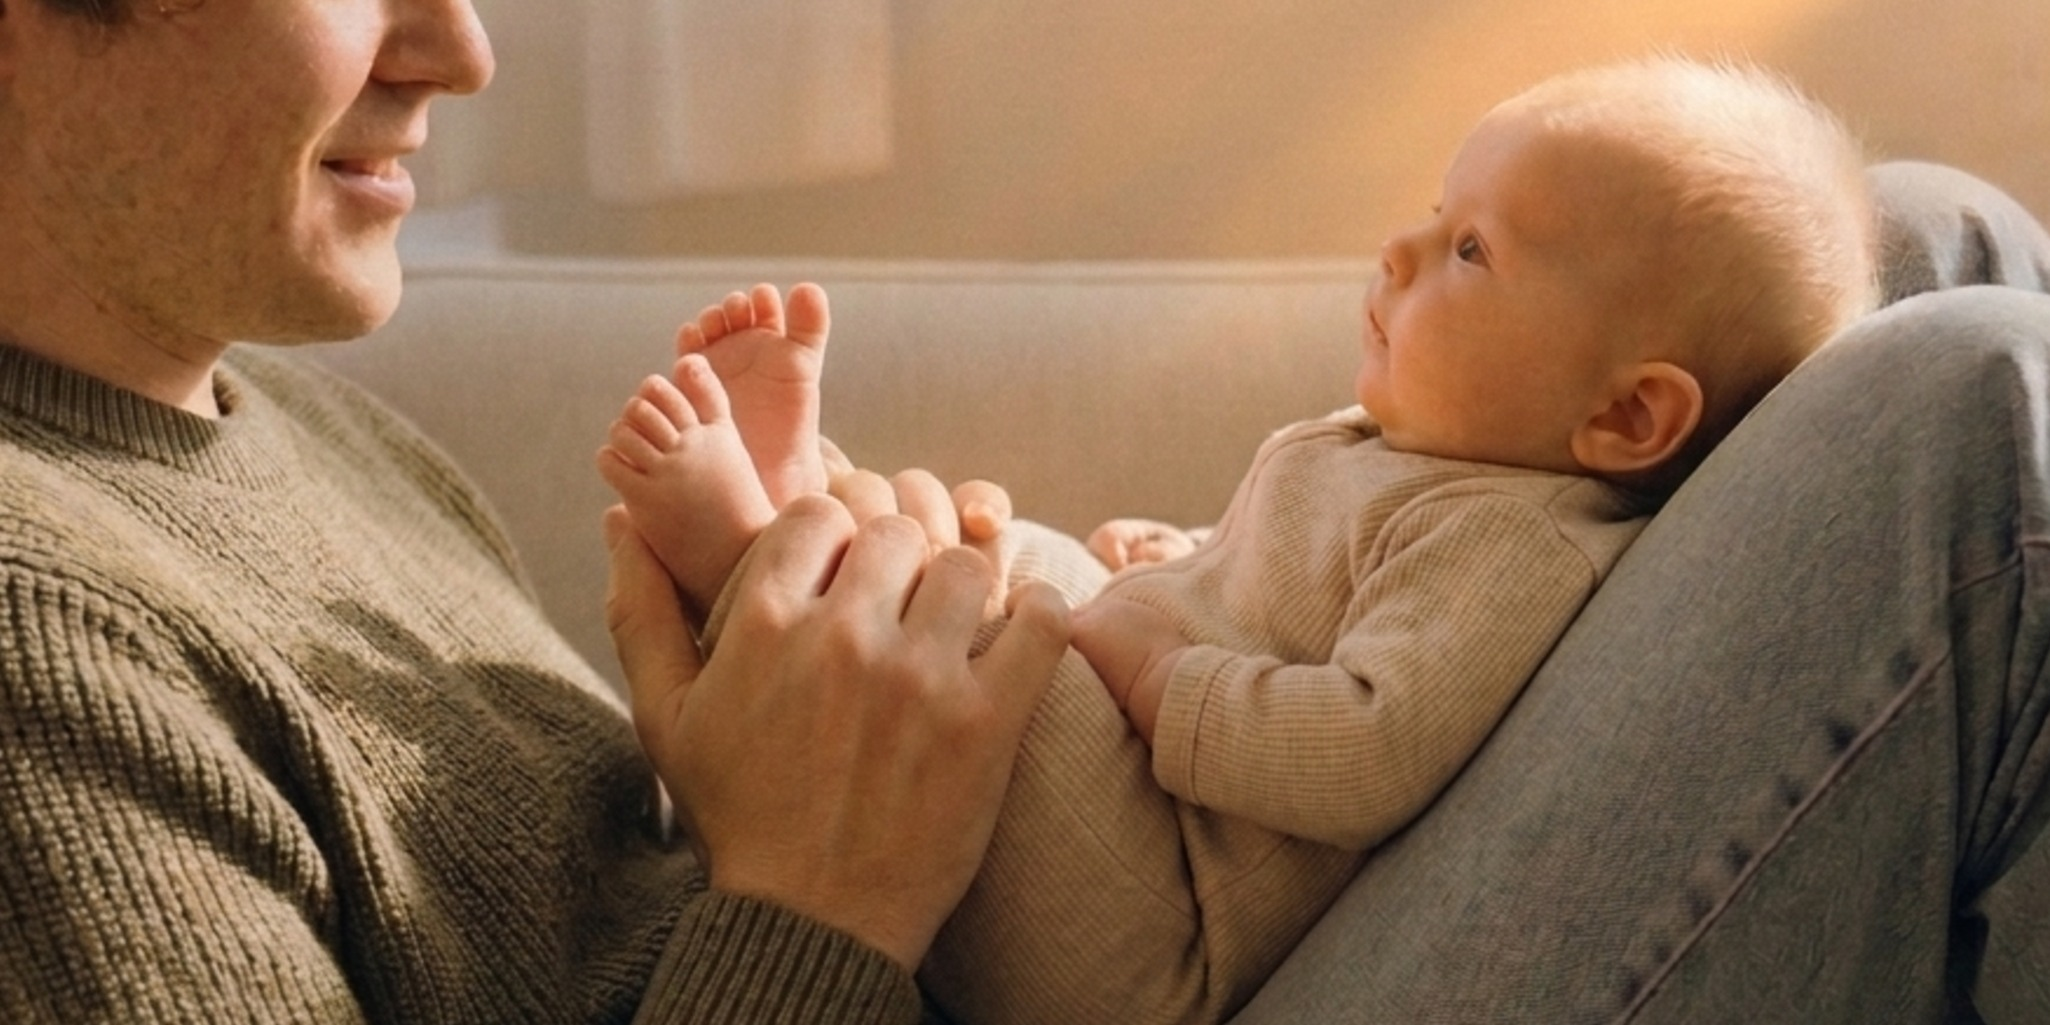
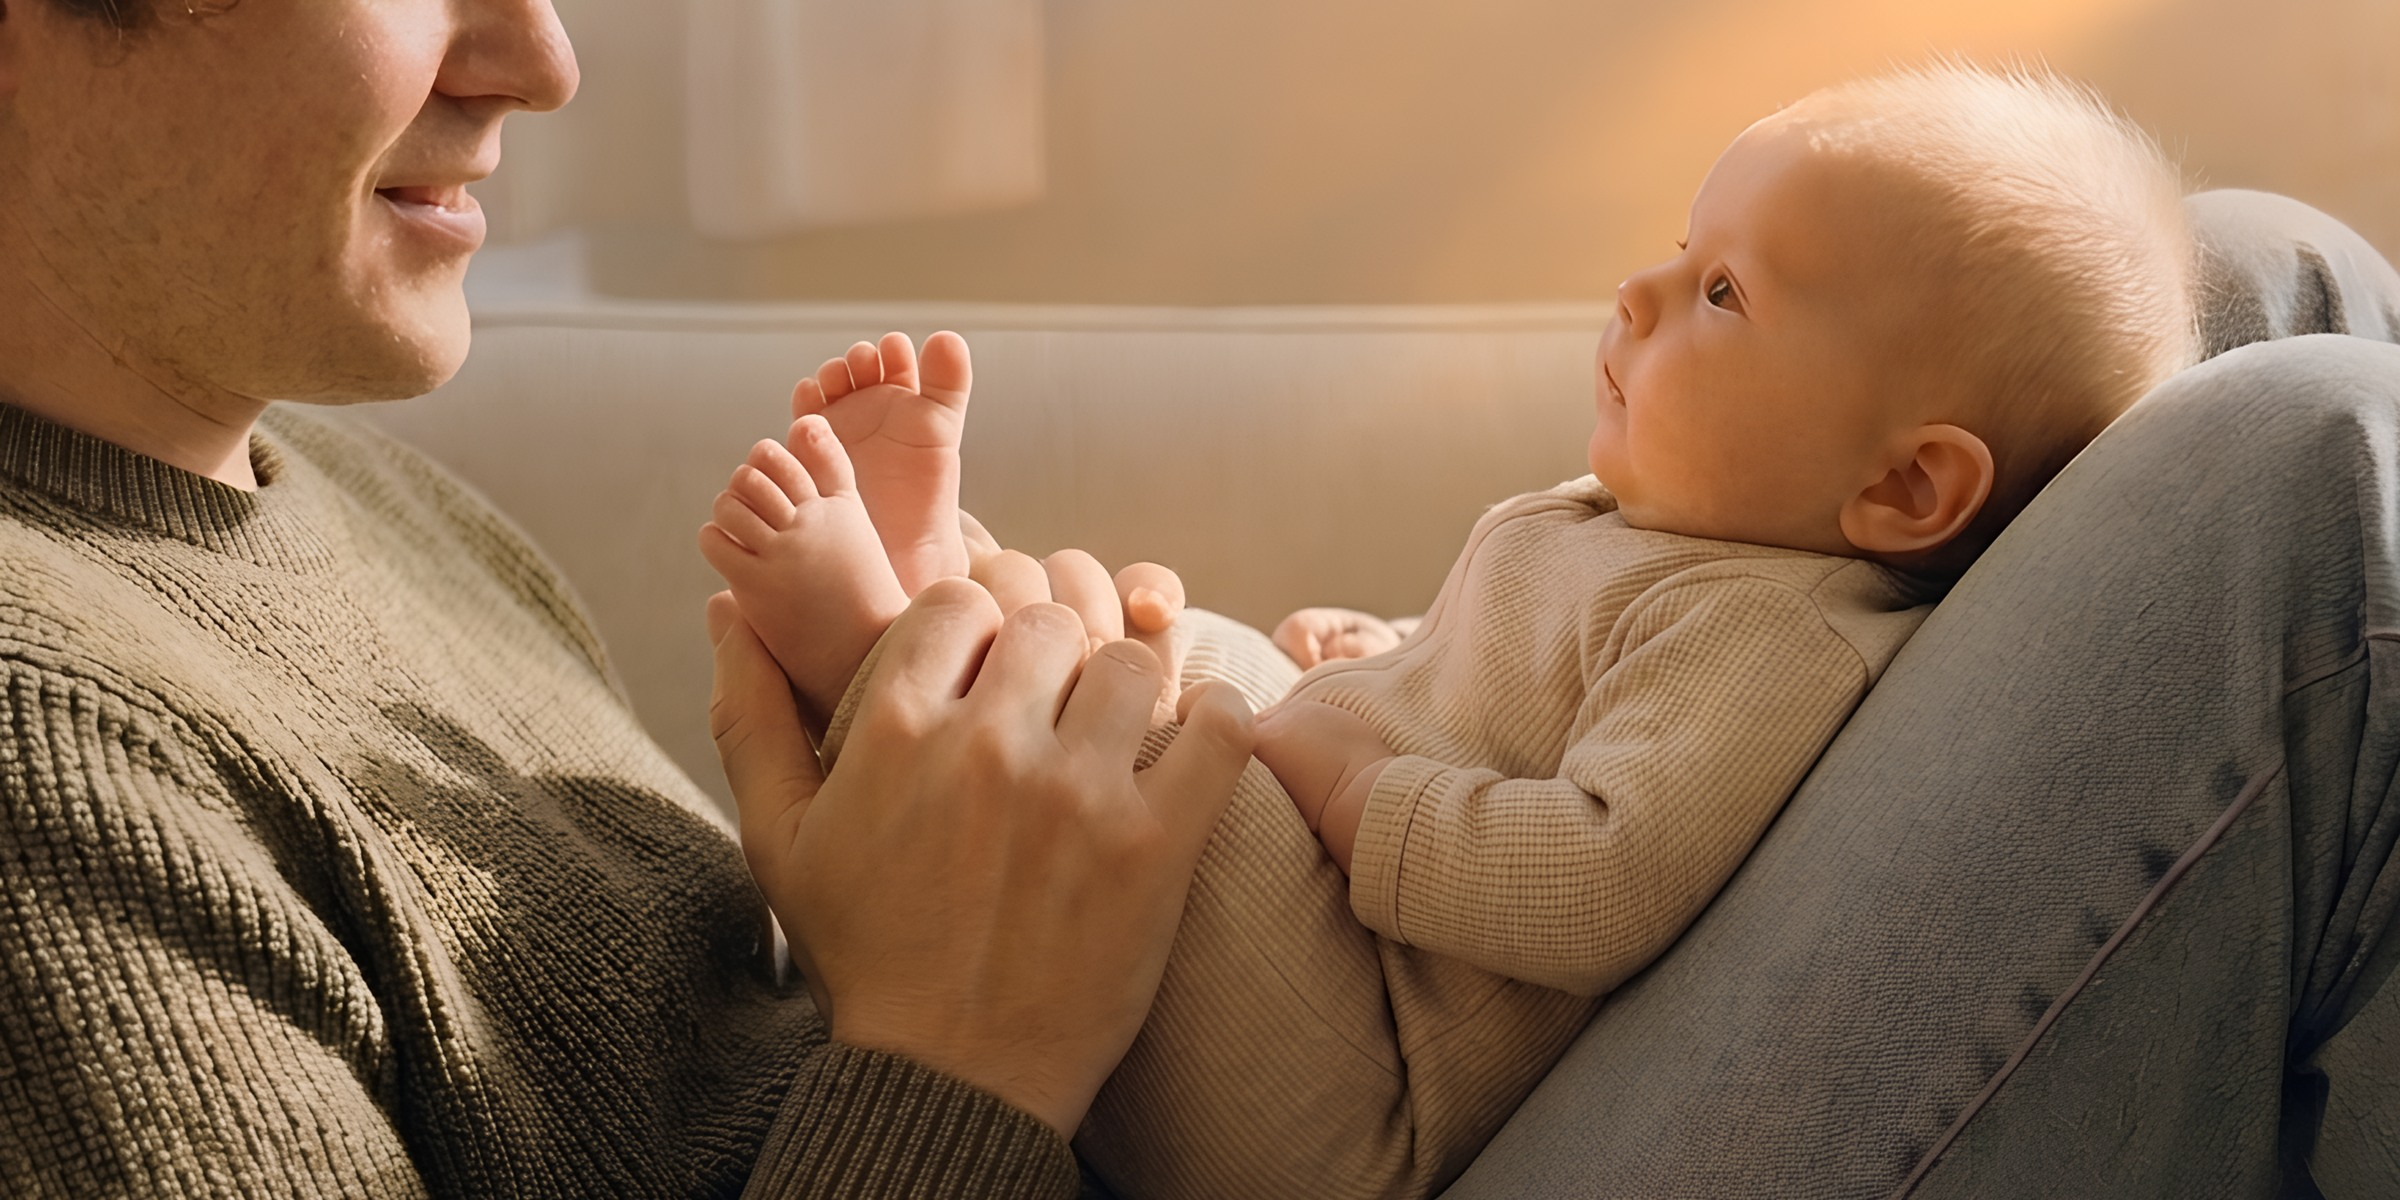
feat(reflexologie): haut de page fixe, « Les séquences », photo haute résolution
Titres en noir pur sur la photo. Les séquences défilent sous le titre ;
le haut redevient normal quand l'Introduction est ouverte.

Changed region(s): [[0.0, 0.4995, 0.281, 1.0], [0.0312, 0.3746, 0.1561, 0.5932]]

diff --git a/app/(app)/reflexologie/page.tsx b/app/(app)/reflexologie/page.tsx
@@ -3,7 +3,11 @@ import { getBabyMonth } from "@/lib/utils";
 import { accueilReflexo, getProtocolesPublies } from "@/lib/reflexologie";
 import { ReflexoListe } from "@/components/modules/reflexo-liste";
 import { ReflexoReplier } from "@/components/modules/reflexo-replier";
-import { ReflexoPhoto, REFLEXO_PHOTO_CHEVAUCHEMENT } from "@/components/modules/reflexo-photo";
+import {
+  ReflexoHautFixe,
+  ReflexoPhoto,
+  REFLEXO_PHOTO_CHEVAUCHEMENT,
+} from "@/components/modules/reflexo-photo";
 import {
   PLAYFAIR,
   REFLEXO_MUTED,
@@ -24,8 +28,10 @@ export default async function ReflexologiePage() {
 
   return (
     // 8 px de marge latérale sur TOUTE la page : l'introduction, le titre
-    // « Les protocoles » et les cases sont ferrés sur la même ligne.
-    <div style={{ display: "flex", flexDirection: "column", gap: 22, padding: "0 8px" }}>
+    // « Les séquences » et les cases sont ferrés sur la même ligne.
+    <div style={{ display: "flex", flexDirection: "column", gap: 4, padding: "0 8px" }}>
+      {/* Haut de page fixe : les séquences défilent sous « Les séquences ». */}
+      <ReflexoHautFixe>
       {/* En-tête : photo bord à bord, titre et sous-titre posés dessus */}
       <ReflexoPhoto />
 
@@ -47,8 +53,8 @@ export default async function ReflexologiePage() {
         className="reflexo-intro"
         style={{
           position: "relative",
-          // 22 px = l'écart de la page, à annuler pour chevaucher vraiment la photo.
-          marginTop: -(22 + REFLEXO_PHOTO_CHEVAUCHEMENT),
+          // 14 px = l'écart du haut de page, à annuler pour chevaucher vraiment la photo.
+          marginTop: -(14 + REFLEXO_PHOTO_CHEVAUCHEMENT),
           background: REFLEXO_FOND_LECTEUR,
           borderRadius: 14,
           overflow: "hidden",
@@ -192,8 +198,6 @@ export default async function ReflexologiePage() {
         </div>
       </details>
 
-      {/* Liste des protocoles publiés, dans l'ordre éditorial de l'index */}
-      <section style={{ display: "flex", flexDirection: "column", gap: 12 }}>
         <h2
           style={{
             fontSize: 10,
@@ -204,11 +208,15 @@ export default async function ReflexologiePage() {
             margin: 0,
           }}
         >
-          Les protocoles
+          Les séquences
         </h2>
+      </ReflexoHautFixe>
+
+      {/* Liste des séquences publiées, dans l'ordre éditorial de l'index */}
+      <section style={{ display: "flex", flexDirection: "column" }}>
         {protocoles.length === 0 ? (
           <p style={{ fontSize: 13, color: REFLEXO_MUTED, fontStyle: "italic" }}>
-            Aucun protocole n&apos;est publié pour le moment.
+            Aucune séquence n&apos;est publiée pour le moment.
           </p>
         ) : (
           <ReflexoListe protocoles={protocoles} />
@@ -225,7 +233,8 @@ export default async function ReflexologiePage() {
           color: REFLEXO_TEXT,
           opacity: 0.7,
           fontStyle: "italic",
-          margin: 0,
+          // 28 px en bas : les boutons ronds de la barre dépassent au-dessus d'elle.
+          margin: "18px 0 28px",
         }}
       >
         {accueilReflexo.disclaimer}

diff --git a/components/modules/reflexo-photo.tsx b/components/modules/reflexo-photo.tsx
@@ -1,5 +1,9 @@
+import type { ReactNode } from "react";
 import Image from "next/image";
-import { PLAYFAIR, REFLEXO_MUTED, REFLEXO_TEXT } from "@/components/modules/reflexo-design";
+import { PLAYFAIR } from "@/components/modules/reflexo-design";
+
+// Noir pur sur la photo, pour la lisibilité (Laura, 21/11/2026).
+const TITRE_SUR_PHOTO = "#000000";
 
 // Photo en haut de la page 1 de la Réflexologie (Laura, 21/11/2026), bord à bord,
 // moins haute que celle de l'accueil, coupée juste sous les yeux du papa. Le titre
@@ -9,13 +13,41 @@ import { PLAYFAIR, REFLEXO_MUTED, REFLEXO_TEXT } from "@/components/modules/refl
 /** De combien (px) le bloc Introduction remonte sur la photo. */
 export const REFLEXO_PHOTO_CHEVAUCHEMENT = 26;
 
+/**
+ * Tout le haut de la page, de la photo au titre « Les séquences » : il reste fixe
+ * et les séquences défilent dessous (Laura, 21/11/2026). Son fond est opaque pour
+ * les masquer. Quand l'Introduction est ouverte, il redevient normal : son long
+ * texte doit pouvoir défiler. Sans `:has`, la règle est ignorée et rien ne se fige.
+ */
+export function ReflexoHautFixe({ children }: { children: ReactNode }) {
+  return (
+    <div
+      className="reflexo-haut"
+      style={{
+        // Annule les marges du <main> (24 px en haut, 20 px sur les côtés) et de la page (8 px).
+        margin: "-24px -28px 0",
+        padding: "0 28px 10px",
+        background: "#FBF2E7",
+        display: "flex",
+        flexDirection: "column",
+        gap: 14,
+      }}
+    >
+      <style>{`
+        .reflexo-haut:not(:has(details[open])) { position: sticky; top: 0; z-index: 10; }
+      `}</style>
+      {children}
+    </div>
+  );
+}
+
 export function ReflexoPhoto() {
   return (
     <header
       style={{
         position: "relative",
-        // Annule les marges du <main> (20 px) et de la page (8 px).
-        margin: "-24px -28px 0",
+        // Bord à bord : annule le retrait de ReflexoHautFixe.
+        margin: "0 -28px",
         height: "clamp(150px, 23dvh, 195px)",
         overflow: "hidden",
         flexShrink: 0,
@@ -49,7 +81,7 @@ export function ReflexoPhoto() {
             fontFamily: PLAYFAIR,
             fontWeight: 700,
             fontSize: 26,
-            color: REFLEXO_TEXT,
+            color: TITRE_SUR_PHOTO,
             letterSpacing: "-.015em",
             lineHeight: 1.1,
             margin: "0 0 8px 0",
@@ -60,7 +92,7 @@ export function ReflexoPhoto() {
         <p
           style={{
             fontSize: 9,
-            color: REFLEXO_MUTED,
+            color: TITRE_SUR_PHOTO,
             letterSpacing: ".15em",
             textTransform: "uppercase",
             fontWeight: 600,

diff --git a/components/modules/reflexo-liste.tsx b/components/modules/reflexo-liste.tsx
@@ -10,7 +10,7 @@ import { ReflexoIcone } from "./reflexo-icone";
 
 export function ReflexoListe({ protocoles }: { protocoles: ReflexoListItem[] }) {
   // La marge latérale est portée par le conteneur de la page, pour que la
-  // liste, le titre « Les protocoles » et l'introduction soient ferrés sur la
+  // liste, le titre « Les séquences » et l'introduction soient ferrés sur la
   // même ligne. Rien ici.
   return (
     <ul style={{ display: "grid", gap: 9, listStyle: "none", margin: 0, padding: 0 }}>

diff --git a/skills/DECISIONS.md b/skills/DECISIONS.md
@@ -649,7 +649,7 @@ Ces documents restent consultables pour l'argumentaire, les sources et les chiff
 - ✅ (30/10) **Réflexologie plantaire, accès selon l'âge** : les tranches d'âge des 20 protocoles publiés sont validées telles qu'écrites (`age_min_mois` → `age_max_mois`, bornes incluses ; `age_statut: "valide"` partout). Hors de sa tranche, un protocole est **totalement bloqué** : absent de la liste, page en 404, épingle grisée non cliquable avec « Ce geste ne correspond plus à l'âge de bébé » (on peut encore la retirer). Les 5 protocoles retirés pour déontologie (bronchite-asthme, eczéma, allergies, ictère, méconium) restent sur l'ordinateur mais **jamais dans Supabase** (vérifié : absents de la base, aucune épingle, aucun lien). Mode relecture `TOUT_VISIBLE` repassé à `false`. Code : `lib/reflexologie.ts` (`adapteAuMois`, `getProtocolePourMois`).
 - ✅ (21/11, remplace les bornes du 30/10 pour ces 4 protocoles) **Nouveaux repères de mois, Réflexologie plantaire** : Naissance prématurée **M0-M3** (avant M0-M5) · Difficultés à téter **M0-M6** (avant M0-M2) · Reflux **M0-M11** (avant M0-M8) · Rhume et oreilles **M4-M23** (avant M6-M23). Coliques (M0-M3) et Inconfort digestif (M4-M12) inchangés. Lien posé : M4, *Le lavage de nez* → `rhume-otite`. Les autres liens possibles restent à valider par Laura (`content/reflexologie/COUVERTURE_reflexo_guide_moi.md`, section 0).
 - ✅ (21/11) **Ordre des slots, Réflexologie plantaire** : **naissance** (accueil du nouveau-né, prématurité, césarienne) · **émotions, regroupées** (séparation, frustration motrice, opposition, concentration, anxiété, jalousie, confiance en soi) · **sommeil** · **troubles physiques** (téter, coliques, inconfort digestif, reflux, dents, constipation, diarrhée, transports, rhume et oreilles). Cet ordre remplace l'idée du slot 4 pour « Sommeil paisible », demandée le même jour. Réglage : liste `lancement` de `content/reflexologie/protocoles-index.json`.
-- ✅ (21/11) **Photo en haut de la page 1 de la Réflexologie plantaire** : « reflexologie - intro - canape avec papa », zoomée et coupée juste sous les yeux du papa, bord à bord, moins haute que la photo d'accueil. Titre et sous-titre centrés en hauteur et en largeur dans la partie visible de la photo, **typo, tailles et couleurs inchangées** : ils peuvent passer sur le visage de bébé, ce qui préserve son anonymat ; bloc Introduction à cheval, comme la case Sommeil sur l'accueil. Code : `components/modules/reflexo-photo.tsx`.
+- ✅ (21/11) **Photo en haut de la page 1 de la Réflexologie plantaire** : « reflexologie - intro - canape avec papa 2 » (version 4096 px, rangée dans `images/reflexologie/anciennes photos/`), zoomée et coupée juste sous les yeux du papa, bord à bord, moins haute que la photo d'accueil. Titre et sous-titre centrés en hauteur et en largeur dans la partie visible de la photo, **typo et tailles inchangées, en noir pur** pour la lisibilité. Le haut de page (photo, Introduction, titre **« Les séquences »**, ex « Les protocoles ») reste **fixe** et les séquences défilent dessous ; quand l'Introduction est ouverte, la page défile normalement pour qu'on puisse la lire. Les titres peuvent passer sur le visage de bébé, ce qui préserve son anonymat ; bloc Introduction à cheval, comme la case Sommeil sur l'accueil. Code : `components/modules/reflexo-photo.tsx`.
 - ✅ (04/11) **Bandeau admin, encore plus accessible** : entrée « Aperçu admin (mois, genre, saison) » dans le menu 3 traits de l'accueil (admins seulement), qui ouvre le bandeau à coup sûr ; poignée plus grande (56 × 6 px, zone de toucher 120 × 36) et plus foncée, descendue sous la zone de l'heure de l'iPhone. Code : `components/ui/app-menu.tsx`, `components/modules/apercu-tiroir.tsx`.
 - ✅ (30/10) **Bandeau admin, accès plus facile** : le geste seul était trop difficile à trouver. Une petite poignée grise discrète en haut au centre de l'écran (admins seulement) ouvre le bandeau d'un toucher ; le geste reste, plus sensible (45 px à glisser ; sur ordinateur, les petits crans de molette ou de pavé tactile s'additionnent). Code : `components/modules/apercu-tiroir.tsx`.
 - ✅ (29/10, soir) **Bandeau admin caché par défaut** (vue « parent ») : il descend en glissant l'écran vers le bas tout en haut de la page (ordinateur : molette vers le haut en haut de page), remonte en glissant vers le haut ou en touchant ailleurs, et se referme après un changement. Pour les admins, le « tirer pour rafraîchir » du navigateur est désactivé. Code : `components/modules/apercu-tiroir.tsx`.
